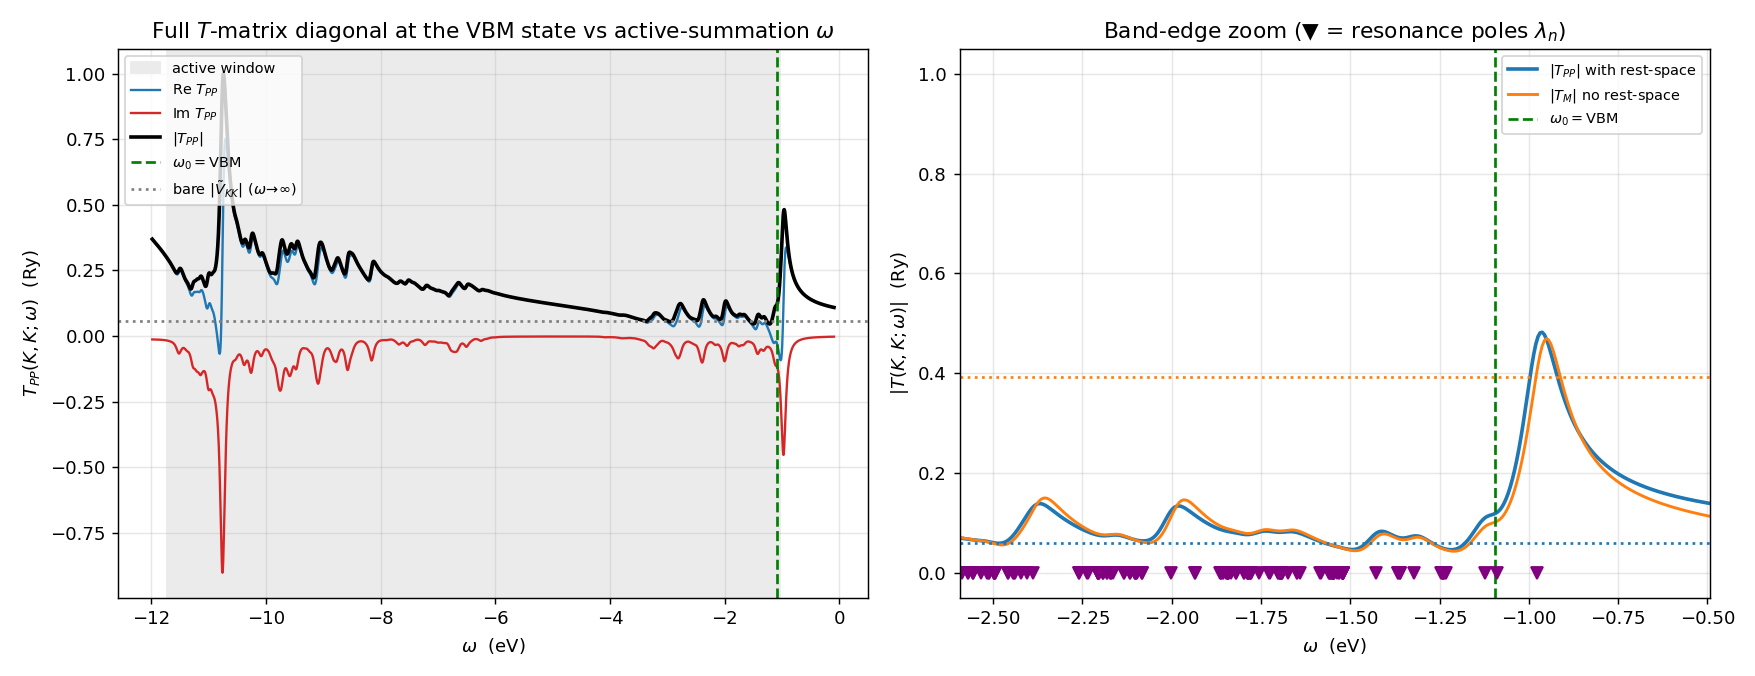
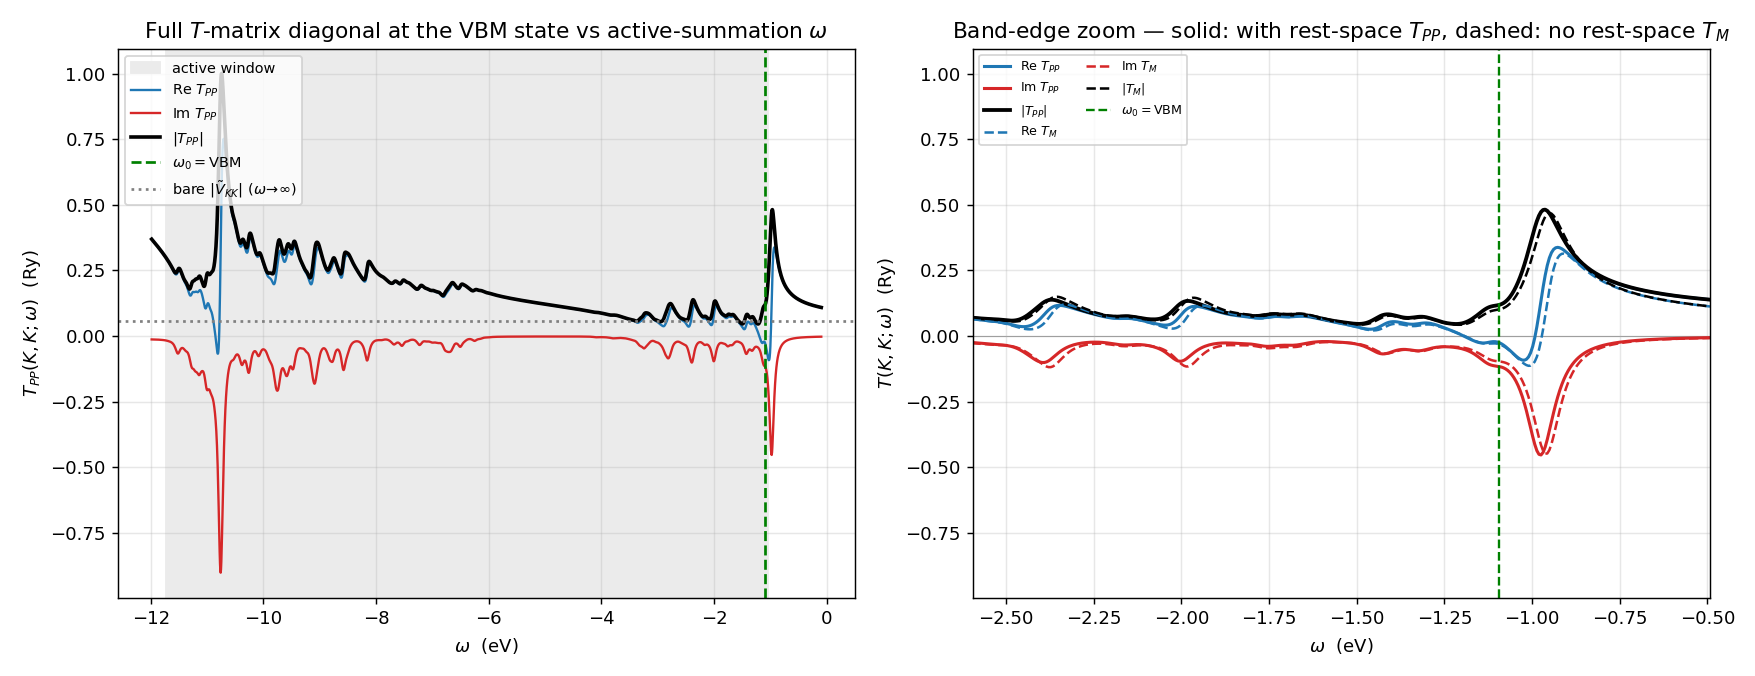
Figure 2 right panel: add Re and Im (both inputs) to the band-edge zoom
Right panel now plots real (blue), imaginary (red), and modulus (black) of the VBM-diagonal T(K,K;omega) for both inputs -- solid T_PP (with rest-space), dashed T_M (no rest-space). Shows the dispersive Re / absorptive Im (=rate) of the defect resonance and that rest-space mainly shifts/broadens it. Updated the caption (removed the dropped pole-marker reference).

diff --git a/docs/pages/results.html b/docs/pages/results.html
@@ -51,7 +51,7 @@ $$T_{PP}(K,K;\omega)=(z-\varepsilon_K)\sum_n\frac{c_n}{z-\lambda_n},\qquad c_n=S
 </div>
 <p>which reproduces a direct $1584\times1584$ solve to $1.3\times10^{-14}$.</p>
 <p><img src="../assets/vtilde_tdiag_omega.png" alt="Diagonal of the full T-matrix at the VBM state vs the active-summation energy: real, imaginary and modulus, with a resonance just above the VBM." style="max-width:100%;height:auto;display:block;margin:1.2rem auto;border:1px solid #d0d7de;border-radius:6px"></p>
-<p><em>Figure 2. Diagonal $T_{PP}(K,K;\omega)$ at the VBM state ($k_i=k_f=K$, top valence band) vs the active-summation energy $\omega$. <strong>Left:</strong> Re, Im, and $|\cdot|$ across the active window. Far from resonances $|T_{PP}|\to$ the bare $|\tilde V_{KK}|=0.059$ Ry (the $G^A\to0$ limit); inside the window the dense active spectrum, broadened by $\eta$, makes it resonant and $\mathrm{Im}\,T_{PP}<0$ (the scattering rate) turns on. <strong>Right (band-edge zoom):</strong> a sharp resonance at $\omega\approx-0.97$ eV — a defect state that the downfolded $\tilde V$ pushes $\sim0.12$ eV <strong>above</strong> the VBM (the $\frac{1}{N_k}\tilde V$ term lifts $\lambda_{\max}$; ▼ mark the poles $\lambda_n$). The on-shell point $\omega_0=$ VBM (green) sits on its rising edge: $T_{PP}(K,K)=-0.025-0.116\,i$ Ry, $|T_{PP}|=0.119$, imaginary-part-dominated — i.e. the band-edge scattering rate. The two inputs $|T_M|$ (no rest-space) and $|T_{PP}|$ (with rest-space) nearly coincide at </em>this diagonal element<em>, but that is misleading: the strong active resummation pulls </em>both<em> bare diagonals ($0.39$ and $0.059$) to $\sim0.1$, forgetting the bare value. The rest-space effect is robust instead in the operator <strong>norm</strong> — $\lVert T_M\rVert/\lVert T_{PP}\rVert\approx2$ right across the window (§2) — not in this single diagonal.</em></p>
+<p><em>Figure 2. Diagonal $T_{PP}(K,K;\omega)$ at the VBM state ($k_i=k_f=K$, top valence band) vs the active-summation energy $\omega$. <strong>Left:</strong> Re, Im, and $|\cdot|$ across the active window. Far from resonances $|T_{PP}|\to$ the bare $|\tilde V_{KK}|=0.059$ Ry (the $G^A\to0$ limit); inside the window the dense active spectrum, broadened by $\eta$, makes it resonant and $\mathrm{Im}\,T_{PP}<0$ (the scattering rate) turns on. <strong>Right (band-edge zoom):</strong> real (blue), imaginary (red), and modulus (black) for <strong>both</strong> inputs — solid $T_{PP}$ (with rest-space), dashed $T_M$ (no rest-space). A sharp resonance at $\omega\approx-0.97$ eV — a defect state that the downfolded $\tilde V$ pushes $\sim0.12$ eV <strong>above</strong> the VBM (the $\frac{1}{N_k}\tilde V$ term lifts $\lambda_{\max}$): $\mathrm{Re}$ disperses through zero while $\mathrm{Im}$ dips negative (the absorptive scattering rate), and adding rest-space (solid vs dashed) mainly shifts/broadens the resonance. The on-shell point $\omega_0=$ VBM (green) sits on its rising edge: $T_{PP}(K,K)=-0.025-0.116\,i$ Ry, $|T_{PP}|=0.119$, imaginary-part-dominated — i.e. the band-edge scattering rate. The two inputs $|T_M|$ (no rest-space) and $|T_{PP}|$ (with rest-space) nearly coincide at </em>this diagonal element<em>, but that is misleading: the strong active resummation pulls </em>both<em> bare diagonals ($0.39$ and $0.059$) to $\sim0.1$, forgetting the bare value. The rest-space effect is robust instead in the operator <strong>norm</strong> — $\lVert T_M\rVert/\lVert T_{PP}\rVert\approx2$ right across the window (§2) — not in this single diagonal.</em></p>
 </section>
 <section id="sec-4"><h2>4. Wannier representation and locality (P5-b)</h2>
 <p>The textbook way to avoid the large $(N_b N_k)$ inversion on fine grids is the Koster–Slater / defect-Green's-function trick: rotate $\tilde V$ to a localized Wannier basis, $\tilde V^W(R',R)=\!\big[U^\dagger(k_f)\,\tilde V(k_f,k_i)\,U(k_i)\big]$ Fourier-transformed, and invert only on the defect's compact support. This requires $\tilde V^W(R',R)$ to be short-ranged — which in turn requires the Wannier rotation $U(k)$ to be in the <strong>same Bloch gauge</strong> as the $\psi_{nk}$ that build $M$ (exactly the consistency EDI's <code>edbloch2wane</code> enforces by construction).</p>

diff --git a/tools/p6_tdiag_omega.py b/tools/p6_tdiag_omega.py
@@ -59,12 +59,16 @@ ax[0].axhline(abs(V[aK,aK]),ls=":",c="gray",label=r"bare $|\tilde V_{KK}|$ ($\om
 ax[0].set_xlabel(r"$\omega$  (eV)"); ax[0].set_ylabel(r"$T_{PP}(K,K;\omega)$  (Ry)")
 ax[0].set_title("Full $T$-matrix diagonal at the VBM state vs active-summation $\\omega$")
 ax[0].legend(fontsize=8,loc="upper left"); ax[0].grid(alpha=.3)
-ax[1].plot(omv,np.abs(Tpp),c="#1f77b4",lw=2.0,label=r"$|T_{PP}|$ with rest-space")
-ax[1].plot(omv,np.abs(Tm),c="#ff7f0e",lw=1.6,label=r"$|T_M|$ no rest-space")
-ax[1].axvline(omega0*RY,ls="--",c="green",lw=1.5,label=r"$\omega_0=$VBM")
-ax[1].axhline(abs(V[aK,aK]),ls=":",c="#1f77b4"); ax[1].axhline(abs(M[aK,aK]),ls=":",c="#ff7f0e")
-for L in near: ax[1].plot([L*RY],[0],"v",c="purple",ms=7)
+ax[1].axhline(0,c="0.6",lw=0.6,zorder=0)
+ax[1].plot(omv,Tpp.real,c="#1f77b4",lw=1.7,label=r"Re $T_{PP}$")
+ax[1].plot(omv,Tpp.imag,c="#d62728",lw=1.7,label=r"Im $T_{PP}$")
+ax[1].plot(omv,np.abs(Tpp),c="k",lw=2.1,label=r"$|T_{PP}|$")
+ax[1].plot(omv,Tm.real,c="#1f77b4",lw=1.4,ls="--",label=r"Re $T_M$")
+ax[1].plot(omv,Tm.imag,c="#d62728",lw=1.4,ls="--",label=r"Im $T_M$")
+ax[1].plot(omv,np.abs(Tm),c="k",lw=1.4,ls="--",label=r"$|T_M|$")
+ax[1].axvline(omega0*RY,ls="--",c="green",lw=1.3,label=r"$\omega_0=$VBM")
 ax[1].set_xlim(omega0*RY-1.5, omega0*RY+0.6)
-ax[1].set_xlabel(r"$\omega$  (eV)"); ax[1].set_ylabel(r"$|T(K,K;\omega)|$  (Ry)")
-ax[1].set_title(r"Band-edge zoom (▼ = resonance poles $\lambda_n$)"); ax[1].legend(fontsize=8); ax[1].grid(alpha=.3)
+ax[1].set_xlabel(r"$\omega$  (eV)"); ax[1].set_ylabel(r"$T(K,K;\omega)$  (Ry)")
+ax[1].set_title("Band-edge zoom — solid: with rest-space $T_{PP}$, dashed: no rest-space $T_M$")
+ax[1].legend(fontsize=7,ncol=2); ax[1].grid(alpha=.3)
 plt.tight_layout(); plt.savefig("p6_tdiag_omega.png",dpi=130); print("wrote p6_tdiag_omega.png")

diff --git a/content/note_tmatrix_results.md b/content/note_tmatrix_results.md
@@ -113,10 +113,13 @@ which reproduces a direct $1584\times1584$ solve to $1.3\times10^{-14}$.
 active-summation energy $\omega$. **Left:** Re, Im, and $|\cdot|$ across the active window. Far from
 resonances $|T_{PP}|\to$ the bare $|\tilde V_{KK}|=0.059$ Ry (the $G^A\to0$ limit); inside the window
 the dense active spectrum, broadened by $\eta$, makes it resonant and $\mathrm{Im}\,T_{PP}<0$ (the
-scattering rate) turns on. **Right (band-edge zoom):** a sharp resonance at $\omega\approx-0.97$ eV —
-a defect state that the downfolded $\tilde V$ pushes $\sim0.12$ eV **above** the VBM (the
-$\frac{1}{N_k}\tilde V$ term lifts $\lambda_{\max}$; ▼ mark the poles $\lambda_n$). The on-shell
-point $\omega_0=$ VBM (green) sits on its rising edge: $T_{PP}(K,K)=-0.025-0.116\,i$ Ry,
+scattering rate) turns on. **Right (band-edge zoom):** real (blue), imaginary (red), and modulus
+(black) for **both** inputs — solid $T_{PP}$ (with rest-space), dashed $T_M$ (no rest-space). A sharp
+resonance at $\omega\approx-0.97$ eV — a defect state that the downfolded $\tilde V$ pushes $\sim0.12$
+eV **above** the VBM (the $\frac{1}{N_k}\tilde V$ term lifts $\lambda_{\max}$): $\mathrm{Re}$ disperses
+through zero while $\mathrm{Im}$ dips negative (the absorptive scattering rate), and adding rest-space
+(solid vs dashed) mainly shifts/broadens the resonance. The on-shell point $\omega_0=$ VBM (green)
+sits on its rising edge: $T_{PP}(K,K)=-0.025-0.116\,i$ Ry,
 $|T_{PP}|=0.119$, imaginary-part-dominated — i.e. the band-edge scattering rate. The two inputs
 $|T_M|$ (no rest-space) and $|T_{PP}|$ (with rest-space) nearly coincide at *this diagonal element*,
 but that is misleading: the strong active resummation pulls *both* bare diagonals ($0.39$ and $0.059$)